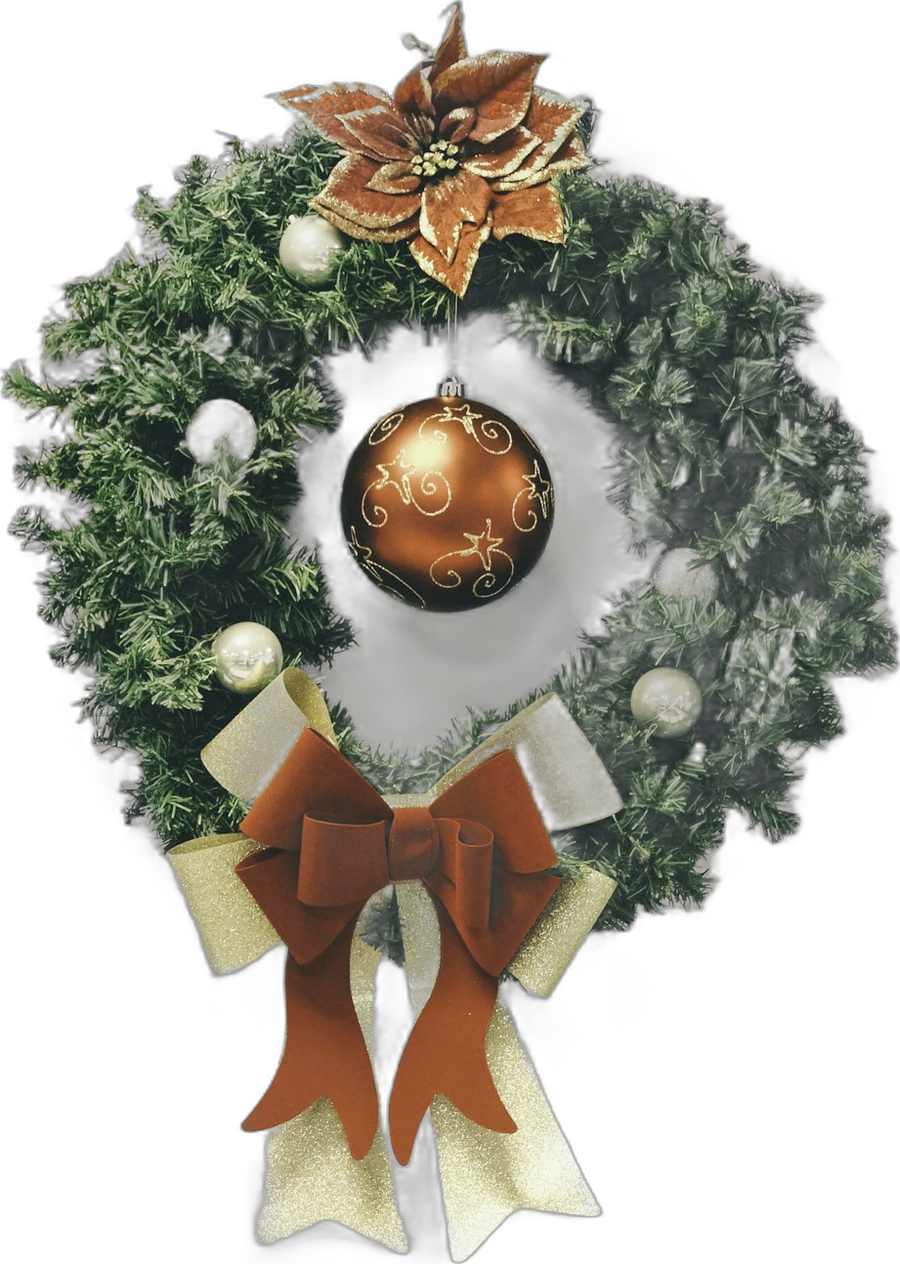
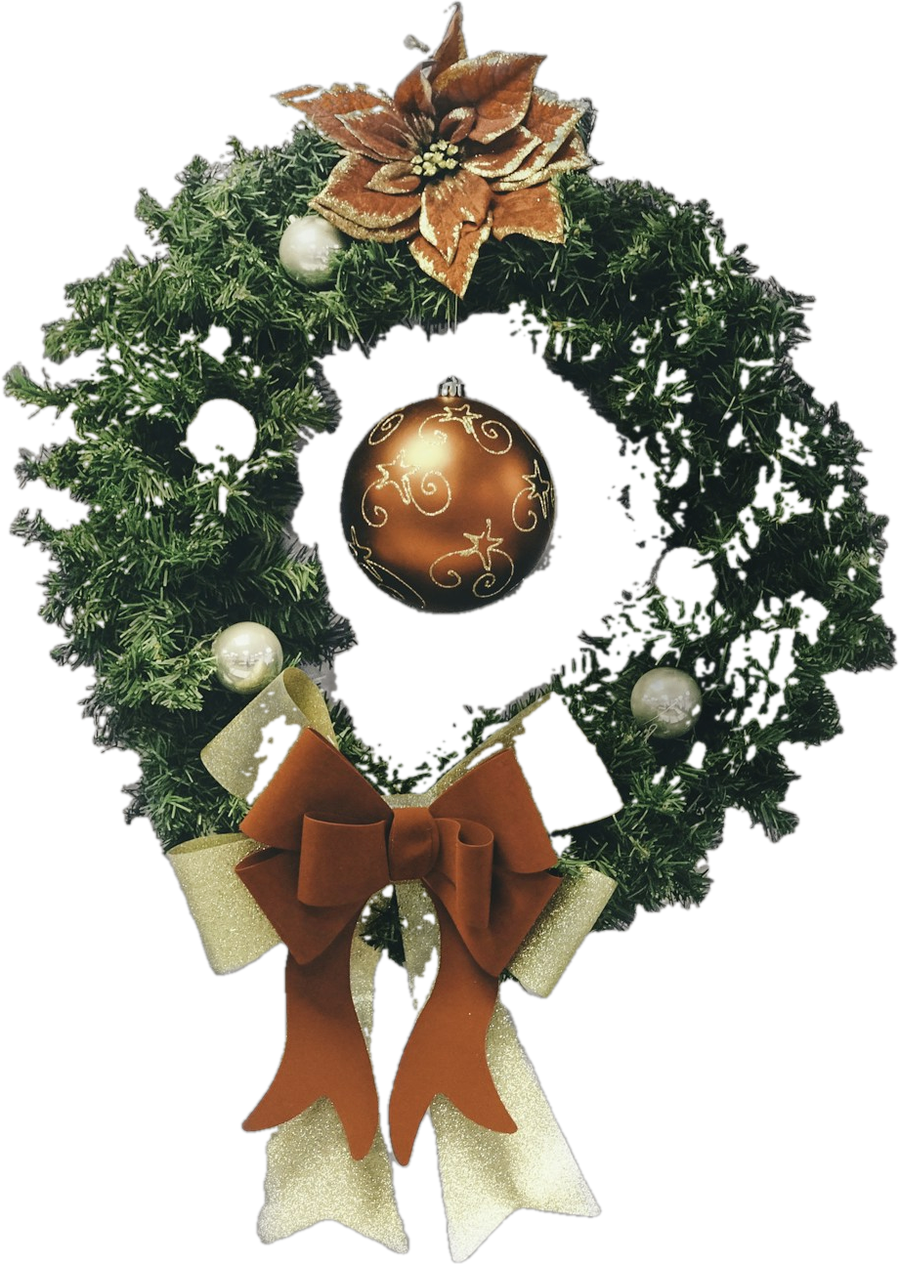
Winter swipe carousel: Kyle's object picks (wreath A, box and key B)
Claude-Session: https://claude.ai/code/session_017wiG7dxysSXVWE8UMga575

diff --git a/graphics/winter-swipe/comp.html b/graphics/winter-swipe/comp.html
@@ -38,7 +38,7 @@
 
   <!-- 3 | 4 : moving box across the seam at 3240 (Unsplash, Giorgio Trovato) -->
   <div class="floor" style="left:2800px; top:1150px; width:880px"></div>
-  <img class="obj" src="box.png" style="left:2830px; top:489px; width:820px">
+  <img class="obj" src="box.png" style="left:2790px; top:730px; width:900px">
   <div class="t" style="left:2224px; top:150px">
     <div class="s">Fewer buyers looking.</div>
     <div class="h"><span>Fewer offers on</span><span>the one you want.</span></div>
@@ -48,9 +48,8 @@
     <div class="h"><span>is a hassle.</span><span>That&rsquo;s the edge.</span></div>
   </div>
 
-  <!-- 5 | 6 : keys across the seam at 5400 (Unsplash, Jozsef Hocza) -->
-  <div class="floor" style="left:4850px; top:1010px; width:1100px"></div>
-  <img class="obj" src="keys.png" style="left:4850px; top:640px; width:1100px">
+  <!-- 5 | 6 : keys across the seam at 5400 (Unsplash, Kelly Sikkema, tinted brass) -->
+    <img class="obj" src="key.png" style="left:5020px; top:540px; width:760px">
   <div class="t" style="left:4384px; top:150px">
     <div class="s">Sellers still listed now</div>
     <div class="h"><span>need it sold.</span></div>

diff --git a/docs/log/2026-11-25-winter-swipe.md b/docs/log/2026-11-25-winter-swipe.md
@@ -33,3 +33,8 @@ wreath (Mel Poole), an open kraft box with an orange edge (Giorgio Trovato) and 
 brass with PIL `colorize` so all three sit in one kraft/brass family). Searching Unsplash for "dark background" objects
 returned nothing usable; white-background studio shots cut out cleanly and match once graded. The page has a set A / set B
 switch. Open: his pick; the key is stamped "Duplication prohibited".
+
+## His pick
+
+Kyle: the wreath from set A, the box and key from set B. `comp.html` is now that combination (wreath Spencer Imbrock,
+box Giorgio Trovato, key Kelly Sikkema tinted brass); `comp-b.html` and the unused cutouts are gone.
